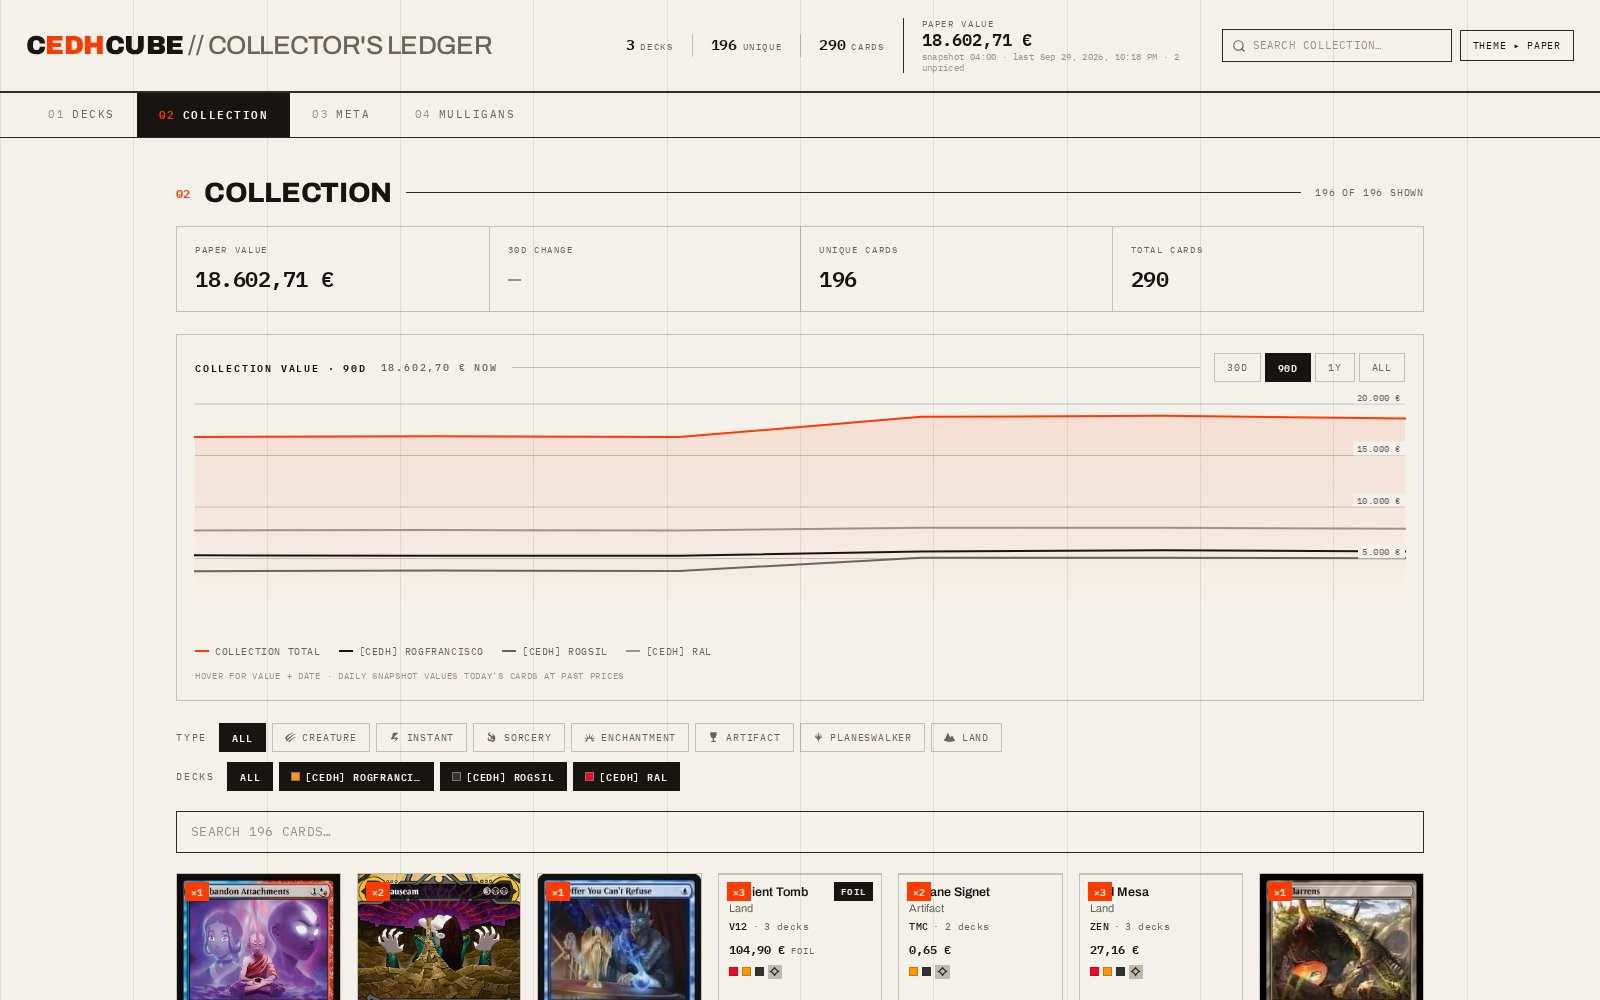
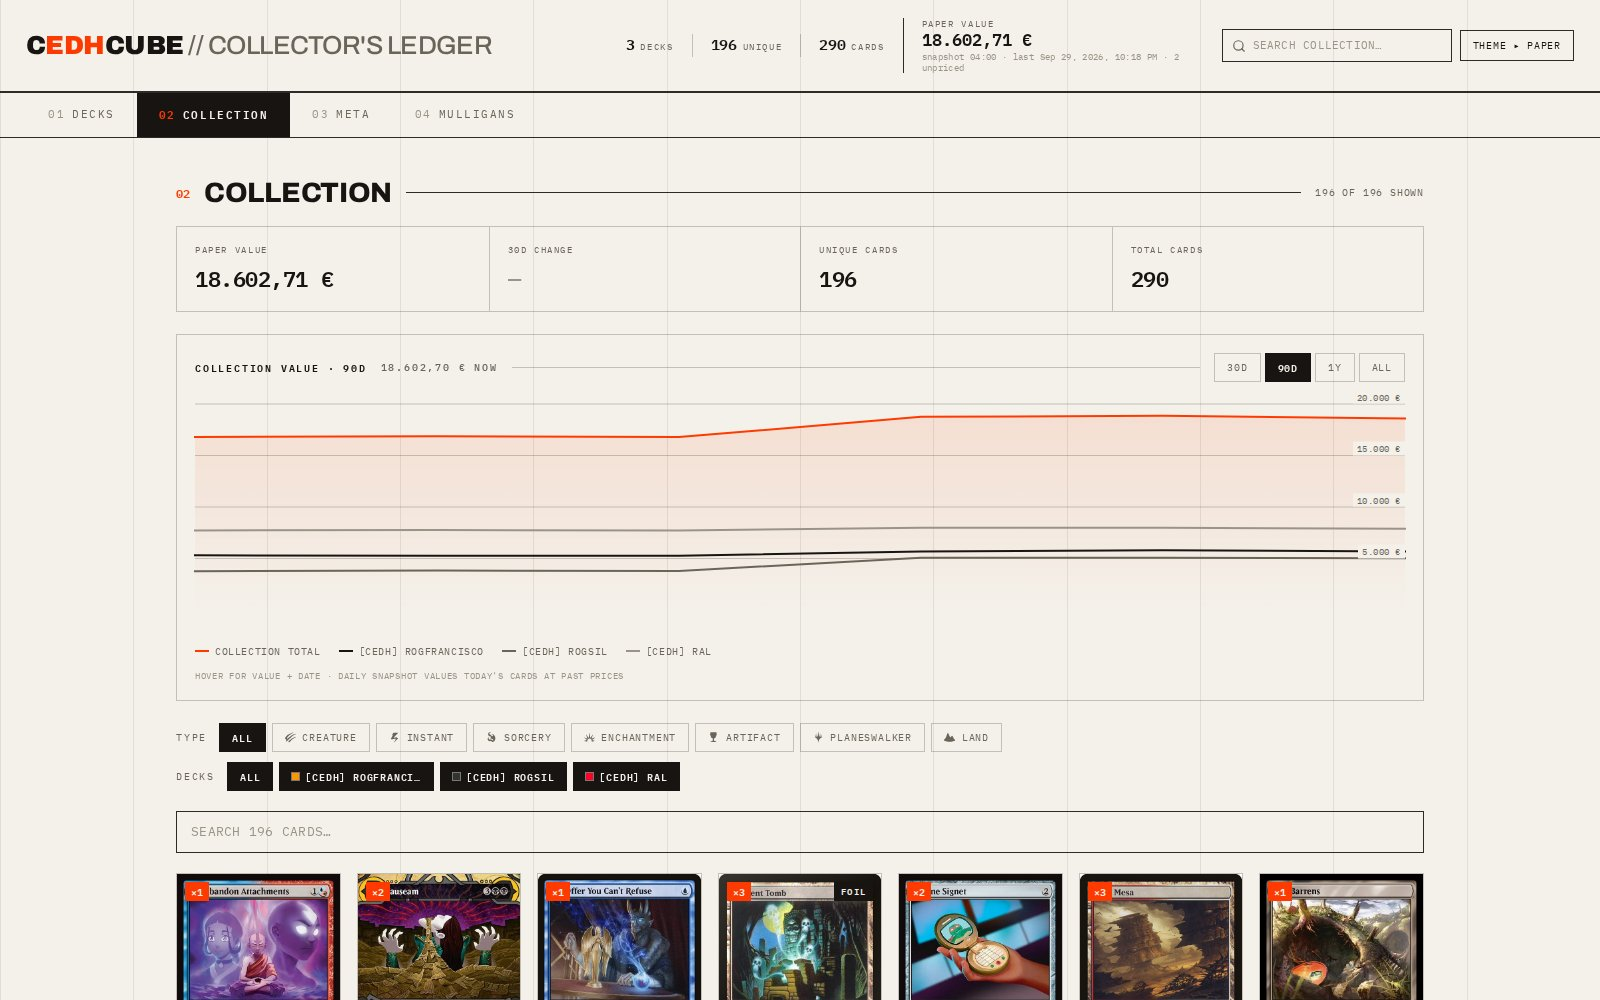
docs: fix meta + mulligans screenshots
- Meta shot now selects the [cEDH] RogSil deck and polls until entries
  render (edhtop16 can transiently return empty) so it captures real data
- Mulligans shot now deals a hand first, showing the dealt 7 + pod + quota
  instead of the empty 'deal a hand' state

Changed region(s): [[0.4375, 0.868, 0.7812, 1.0], [0.375, 0.868, 0.4062, 0.899]]

diff --git a/docs/shoot.js b/docs/shoot.js
@@ -89,19 +89,28 @@ const OUT = '/home/npopkov/magic-collection/docs/screenshots';
   await shoot(p, '09-card-detail-modal');
   await p.close();
 
-  // 10 — Meta tab
+  // 10 — Meta tab (RogSil deck selected); poll until entries render (edhtop16
+  // can transiently return empty — retry, don't screenshot the empty state)
   p = await mkPage('paper');
   await p.goto(BASE, { waitUntil: 'networkidle' });
   await p.click('.tab:has-text("Meta")');
-  await p.waitForTimeout(3500);
+  await p.waitForTimeout(2500);
+  await p.selectOption('#meta-deck-select', '14'); // [cEDH] RogSil
+  for (let i = 0; i < 10; i++) {
+    const n = await p.locator('.meta-entry').count();
+    if (n > 0) break;
+    await p.waitForTimeout(1500);
+  }
   await shoot(p, '10-meta-tab');
   await p.close();
 
-  // 11 — Mulligans tab (pick first deck, deal a hand)
+  // 11 — Mulligans tab (deal a hand first so the round renders)
   p = await mkPage('paper');
   await p.goto(BASE, { waitUntil: 'networkidle' });
   await p.click('.tab:has-text("Mulligans")');
   await p.waitForTimeout(2500);
+  await p.click('.mulligan-actions .chip:has-text("Deal hand")');
+  await p.waitForTimeout(3000);
   await shoot(p, '11-mulligans-tab');
   await p.close();
 
